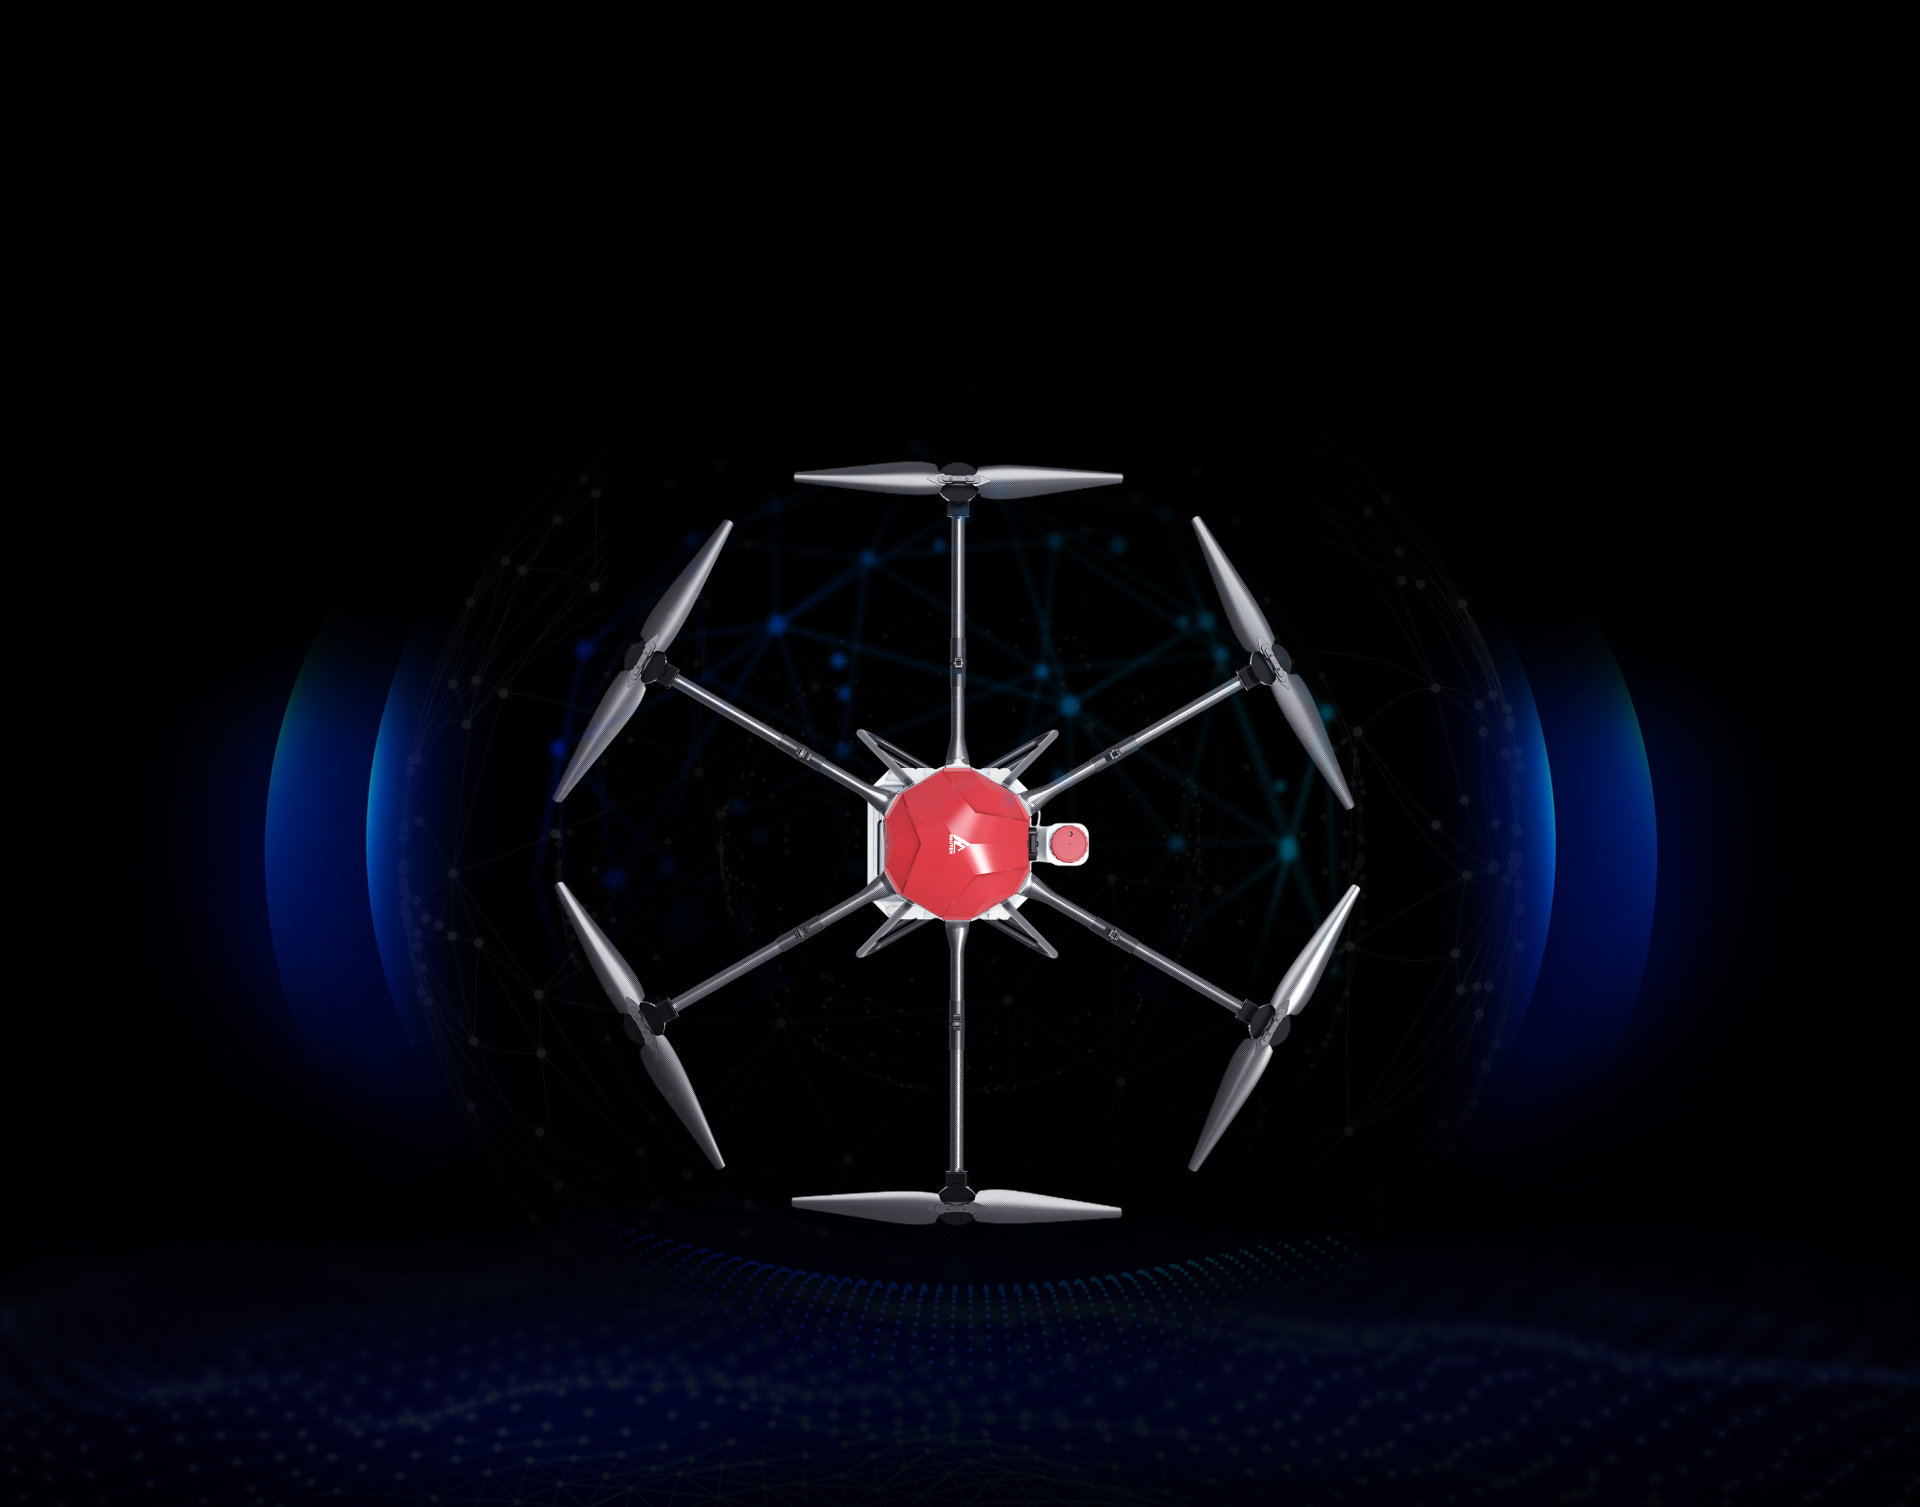
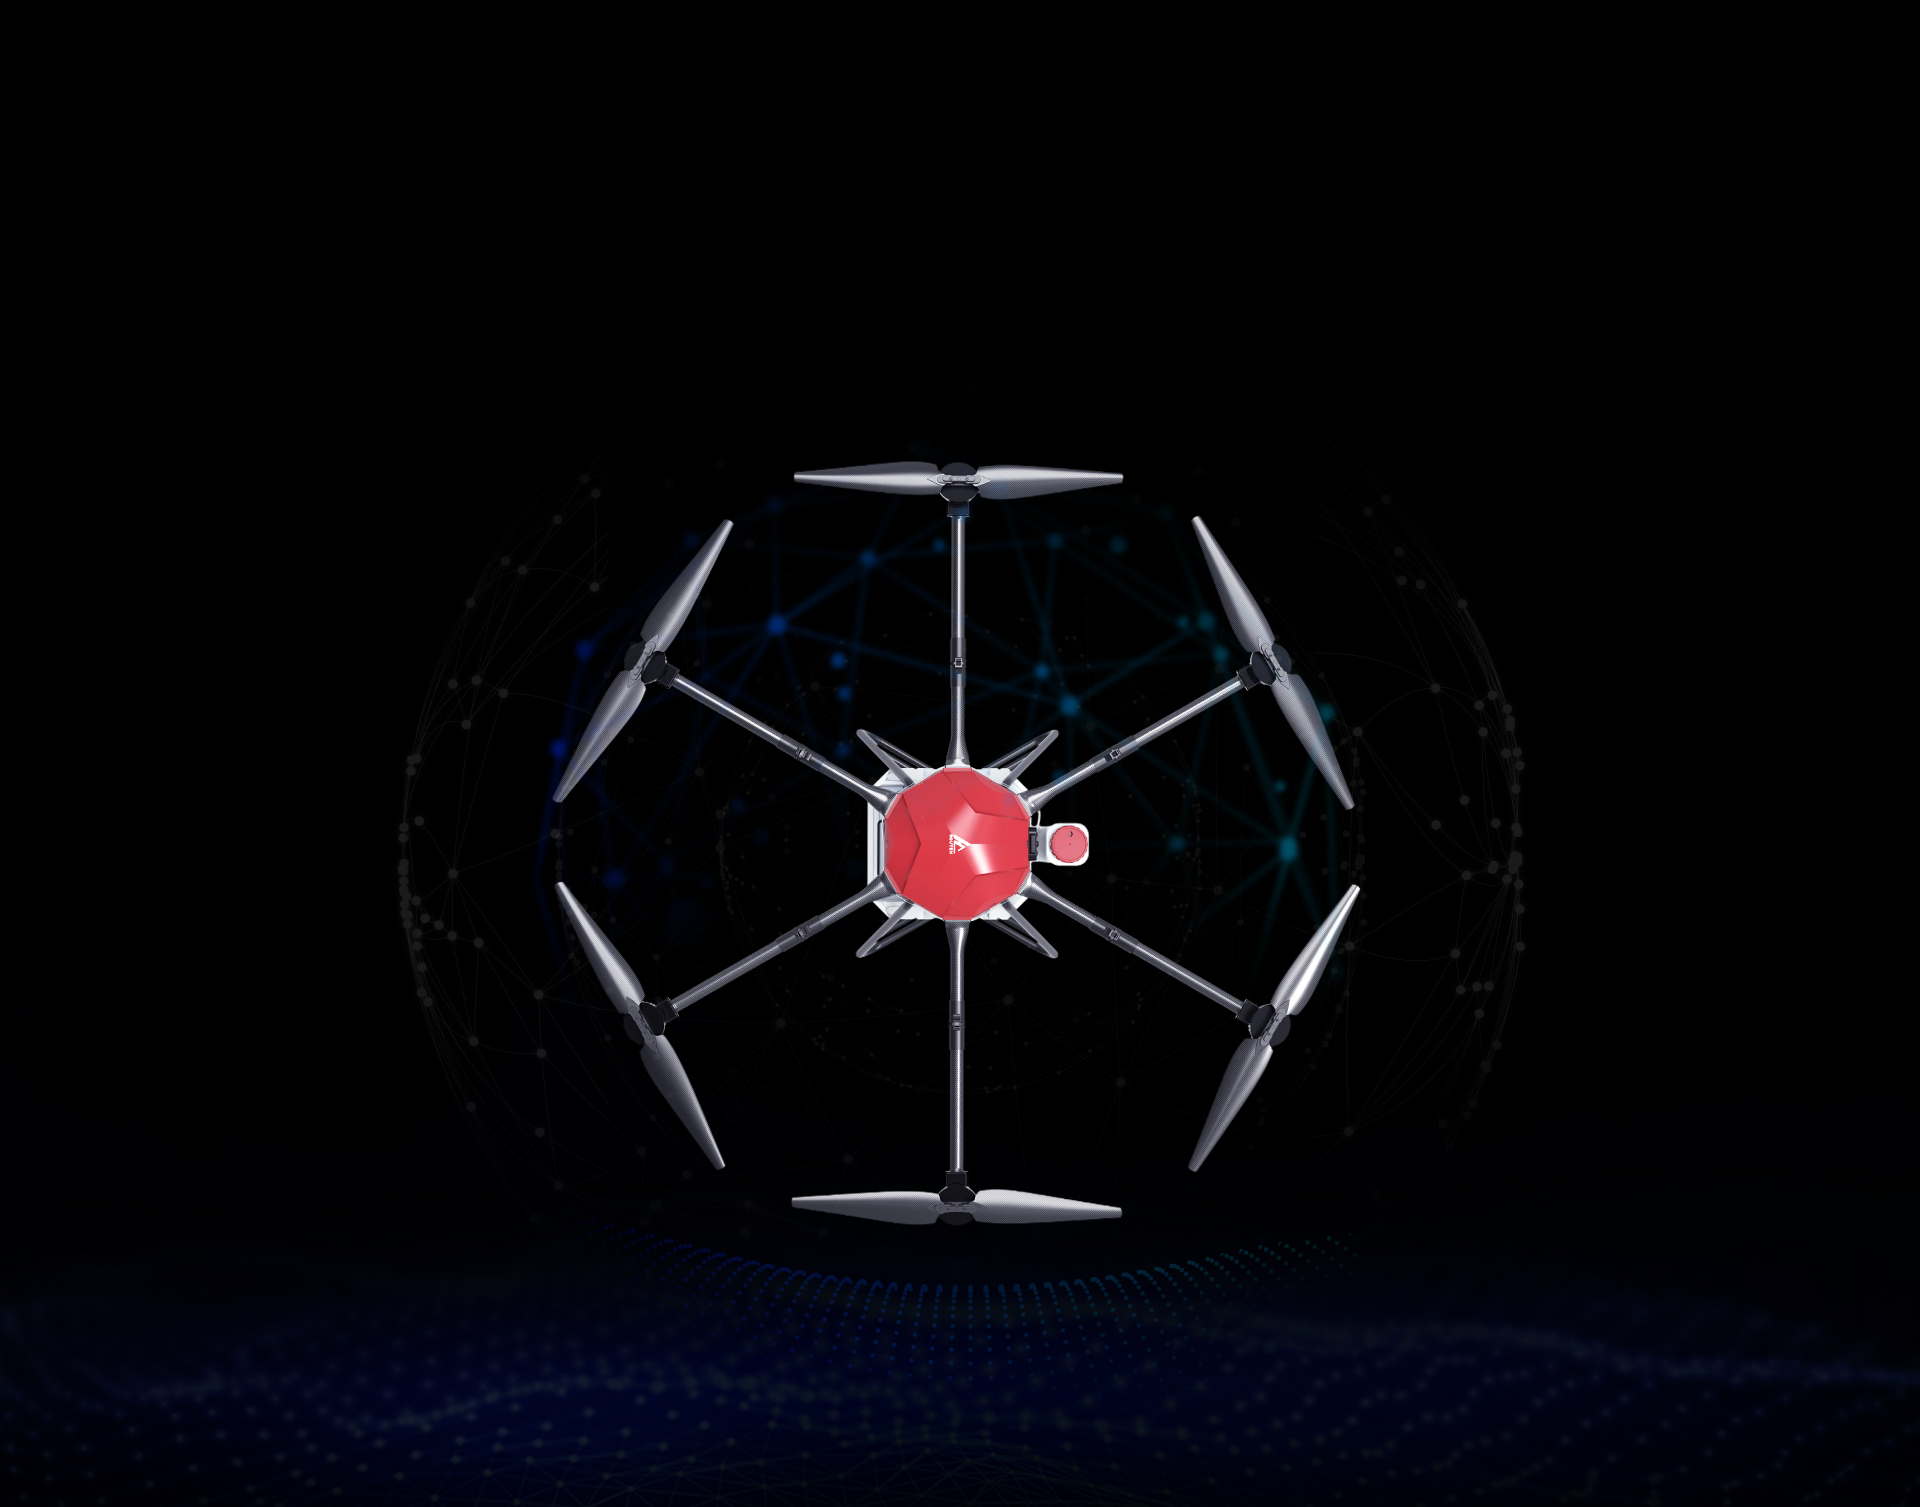
动态

Changed region(s): [[0.0938, 0.4366, 0.25, 0.7173], [0.75, 0.4366, 0.9062, 0.7173]]

diff --git a/components/product_details.html b/components/product_details.html
@@ -108,7 +108,7 @@
                         
                     </div>
                     <div class="swiper-button-prev"></div>
-                        <div class="swiper-button-next"></div>
+                    <div class="swiper-button-next"></div>
                 </section>
                 
                 
@@ -139,6 +139,15 @@
             <div class="section section6">
                 <h3>智能毫米波雷达避障</h3>
                 <p>自动感知障碍物及周围环境，具备预判障碍物动态，使飞行作业更有保障</p>
+                <section class="sectionContain">
+                    <section class="section6_left">
+                        <img src="../img/back_img6_left.png" alt="">
+                    </section>
+                    <section class="section6_right">
+                        <img src="../img/back_img6_right.png" alt="">
+                    </section>
+                </section>
+                
             </div>
             <div class="section section7">
                 <h3>惊人的载重能力，效率升级</h3>
@@ -354,9 +363,9 @@
                         bottom: '0'
                     }, 1500, 'easeOutExpo');
                 }
-                if (index == 6) {
-                    $('.section6').find('p').fadeIn(2000);
-                }
+                // if (index == 6) {
+                //     $('.section6').find('p').fadeIn(2000);
+                // }
                 if (index == 7) {
                     $('.section7').find('p').delay(100).animate({
                         bottom: '0'
@@ -426,9 +435,9 @@
                         bottom: '-120%'
                     }, 1500, 'easeOutExpo');
                 }
-                if (index == '6') {
-                    $('.section6').find('p').fadeOut(2000);
-                }
+                // if (index == '6') {
+                //     $('.section6').find('p').fadeOut(2000);
+                // }
                 if (index == '7') {
                     $('.section7').find('p').delay(500).animate({
                         bottom: '-120%'

diff --git a/css/product_details.css b/css/product_details.css
@@ -219,9 +219,9 @@
     display: none;
 } */
 
-.section6 p {
+/* .section6 p {
     display: none;
-}
+} */
 
 .section7 p {
     position: relative;
@@ -465,15 +465,18 @@
 .section6 {
     background: url(../img/back_img6.jpg) no-repeat;
     background-position: center center;
+    /* background-size: 100% 100%; */
     background-size: contain;
+    display: flex;
     background-color: black!important;
 }
 
 .section6 h3 {
-    margin-top: -6rem;
+    margin-top: -5rem;
     color: #fff!important;
     font-size: 0.8rem;
     opacity: 0.9;
+    padding-top: 3rem;
 }
 
 .section6 p {
@@ -481,8 +484,46 @@
     font-size: .4rem;
     opacity: 0.5;
 }
-
-
+.sectionContain{
+    width: 14rem;
+    display: flex;
+    margin: 0 auto;
+    margin-top: 1rem;
+    /* background-color: red; */
+}
+.sectionContain>.section6_left{
+   width: 31rem;
+   height: 6rem;
+   
+}
+@keyframes section6_left{
+    0%{background-clor:#F00;left:0rem;top:0rem;opacity: 0;}
+    /* 25%{background-clor:#F00;left:2.5rem;top:0rem;opacity: 1;} */
+    50%{background-clor:#F00;left:5rem;top:0rem;opacity: 1;}
+    /* 75%{background-clor:#F00;left:2.5rem;top:0rem;opacity: 1;} */
+    100%{background-clor:#F00;left:0rem;top:0rem;opacity: 0;}  
+}
+@keyframes section6_right{
+    0%{background-clor:#F00;right:0rem;top:0rem;opacity: 0;}
+    50%{background-clor:#F00;right:5rem;top:0rem;opacity: 1;}
+    100%{background-clor:#F00;right:0rem;top:0rem;opacity: 0;}  
+}
+.sectionContain>.section6_right{
+    width: 12rem;
+   height: 6rem;
+}
+.sectionContain>.section6_left>img{
+    margin-top: 3rem;
+    display: block;
+    position:absolute;/*这句不能少，否则动不起来*/
+    animation:section6_left 2s infinite;/*keyframes名称，动画时间，循环*/
+}
+.sectionContain>.section6_right>img{
+    display: block;
+    margin-top: 3rem;
+    position:absolute;/*这句不能少，否则动不起来*/
+    animation:section6_right 2s infinite;/*keyframes名称，动画时间，循环*/
+}
 /* 第七屏 */
 
 .section7 {

diff --git a/components/serviceSupport.html b/components/serviceSupport.html
@@ -18,6 +18,7 @@
     <section class="header"></section>
     <section class="banner">
         <img src="../img/about-index-pc.png" alt="">
+        <h1>行业指导<br/>一对一服务</h1>
         <!-- <section class="input-p">
             <h1>产品技术支持</h1>
             <img id="inputt_icon" src="../img/u=110577387,2340361853&fm=26&fmt=auto&gp=0.webp" alt="">
@@ -69,6 +70,24 @@
                     <span>牛人机</span><a href="../word/1.doc" download="">下载</a>
                 </p>
             </section> -->
+            <p class="file_word_p" style="display: flex; justify-content: space-between;">
+                <span>植保无人机</span><a href="../word/1.doc" download="">下载</a>
+            </p>
+            <p class="file_word_p"  style="display: flex; justify-content: space-between;">
+                <span>灭火弹无人机</span><a href="../word/1.doc" download="">下载</a>
+            </p>
+            <p class="file_word_p"  style="display: flex; justify-content: space-between;">
+                <span>农用无人机</span><a href="../word/1.doc" download="">下载</a>
+            </p>
+            <p class="file_word_p" style="display: flex; justify-content: space-between;">
+                <span>航拍无人机</span><a href="../word/1.doc" download="">下载</a>
+            </p>
+            <p class="file_word_p"  style="display: flex; justify-content: space-between;">
+                <span>轰炸机</span><a href="../word/1.doc" download="">下载</a>
+            </p>
+            <p class="file_word_p"  style="display: flex; justify-content: space-between;">
+                <span>牛人机</span><a href="../word/1.doc" download="">下载</a>
+            </p>
             <p class="file_word_p" style="display: flex; justify-content: space-between;">
                 <span>牛人机</span><a href="../word/1.doc" download="">下载</a>
             </p>

diff --git a/css/serviceSupport.css b/css/serviceSupport.css
@@ -5,12 +5,19 @@
     position: relative;
 }
 
-.banner img {
+.banner>img {
     display: block;
     width: 100%;
     height: 100%;
 }
-
+.banner>h1{
+    position: absolute;
+    left: 1.8rem;
+    top: 3rem;
+    font-size: .8rem;
+    color: #fff;
+}
+/* 
 .input-p {
     position: absolute;
     top: 50%;
@@ -22,9 +29,9 @@
 
 .input-p h1 {
     font-size: .8rem;
-}
+} */
 
-.inputt {
+/* .inputt {
     border: solid .02rem #f0f0f2;
     width: 12rem;
     height: 1rem;
@@ -46,26 +53,26 @@
 
 .product_line {
     /* background-color: red; */
-    z-index: 1;
+    /*z-index: 1;
     padding: 0 2rem;
-}
+} */
 
-.form {
+/* .form {
     display: flex;
     justify-content: space-around;
     width: 100%;
     height: 4rem;
-    z-index: 2;
+    z-index: 2; */
     /* background-color: blue; */
-    border-bottom: #f0f0f2 solid .08rem;
+    /* border-bottom: #f0f0f2 solid .08rem;
 }
 
 .fotm-li {
     width: 4rem;
     height: 4rem;
-    text-align: center;
+    text-align: center; */
     /* border-bottom: thistle solid .1rem; */
-    font-size: .2rem;
+    /* font-size: .2rem;
 }
 
 .back_red {
@@ -75,7 +82,7 @@
 .fotm-li img {
     width: 4rem;
     height: 3rem;
-}
+} */
 
 .file {
     text-align: center;
@@ -99,13 +106,20 @@
 
 .file_word{
     width: 80vw; 
-    height: 8rem;
+    height: 4rem;
     margin: 0 auto 1rem;
-    /* background-color: red; */
     box-sizing: border-box;
-    border: black .02rem solid;
+    overflow:auto;
 }
 .file_word_p{
-    height: .5rem;
-    line-height: .5rem;
+    height: .8rem;
+    line-height: .8rem;
+    padding: 0 .5rem;
+    font-size: .2rem;
+}
+.file_word_p:nth-child(even){
+    background-color: #fff;
+}
+.file_word_p:nth-child(odd){
+    background-color: #eee;
 }

diff --git a/common/header.html b/common/header.html
@@ -132,11 +132,15 @@
     $('.header-r-block').on('click', function(ev) {
         console.log(this)
 
-        let childrenDom = $(this).children().children()[1];
-        console.log(childrenDom)
+        let childrenDom = $(this).children().children()[0];
+        console.log(childrenDom,8888)
         $(childrenDom).on('click', function() {
             window.location.href = '../components/product_details.html'
         })
+    let afterSale =  $(this).children().children()[1];
+    $(afterSale).on('click',function(){
+        window.location.href = '../components/after_Sale_Service.html'
+    })
     })
 
     function navBarClick(index) {
@@ -150,8 +154,4 @@
             }
         }
     }
-    $('.navBarAlert_Service').children()[1].click(function() {
-        $(Location).attr("href", "../components/after_Sale_Service.html")
-    })
-    let aa = $('.navBarAlert_Service').children()[1]
 </script>

diff --git a/components/aboutUs.html b/components/aboutUs.html
@@ -27,7 +27,7 @@
         </section>
         <sectio class="profile">
             <section class="profile_img">
-                <img src="../img/eft暂时.jpg" alt="">
+                <img src="../img/sevice+port.jpg" alt="">
             </section>
             <section class="profile_text">
                 <h3>专业介绍</h3>
